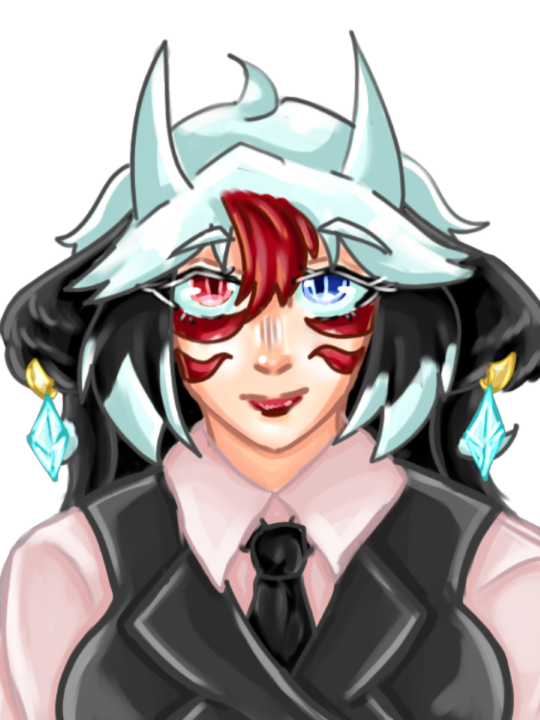
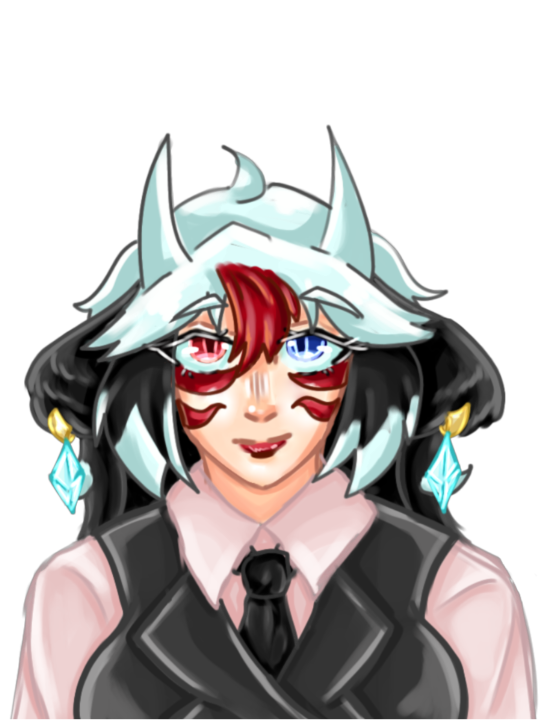
Ajout de PP des pilotes (95% complet)

diff --git a/index.html b/index.html
@@ -110,7 +110,7 @@
                 <a class="pilot-card" href="pilot.html?id=p01" data-pilot="p01">
                     <figure>
                         <div class="img-wrap">
-                            <img src="assets/images/team-1/ensuri.png" alt="Nom Pilote">
+                            <img src="assets/images/team-3/byakuren.png" alt="Nom Pilote">
                         </div>
                         <figcaption class="pilot-name">Nom Pilote</figcaption>
                     </figure>
